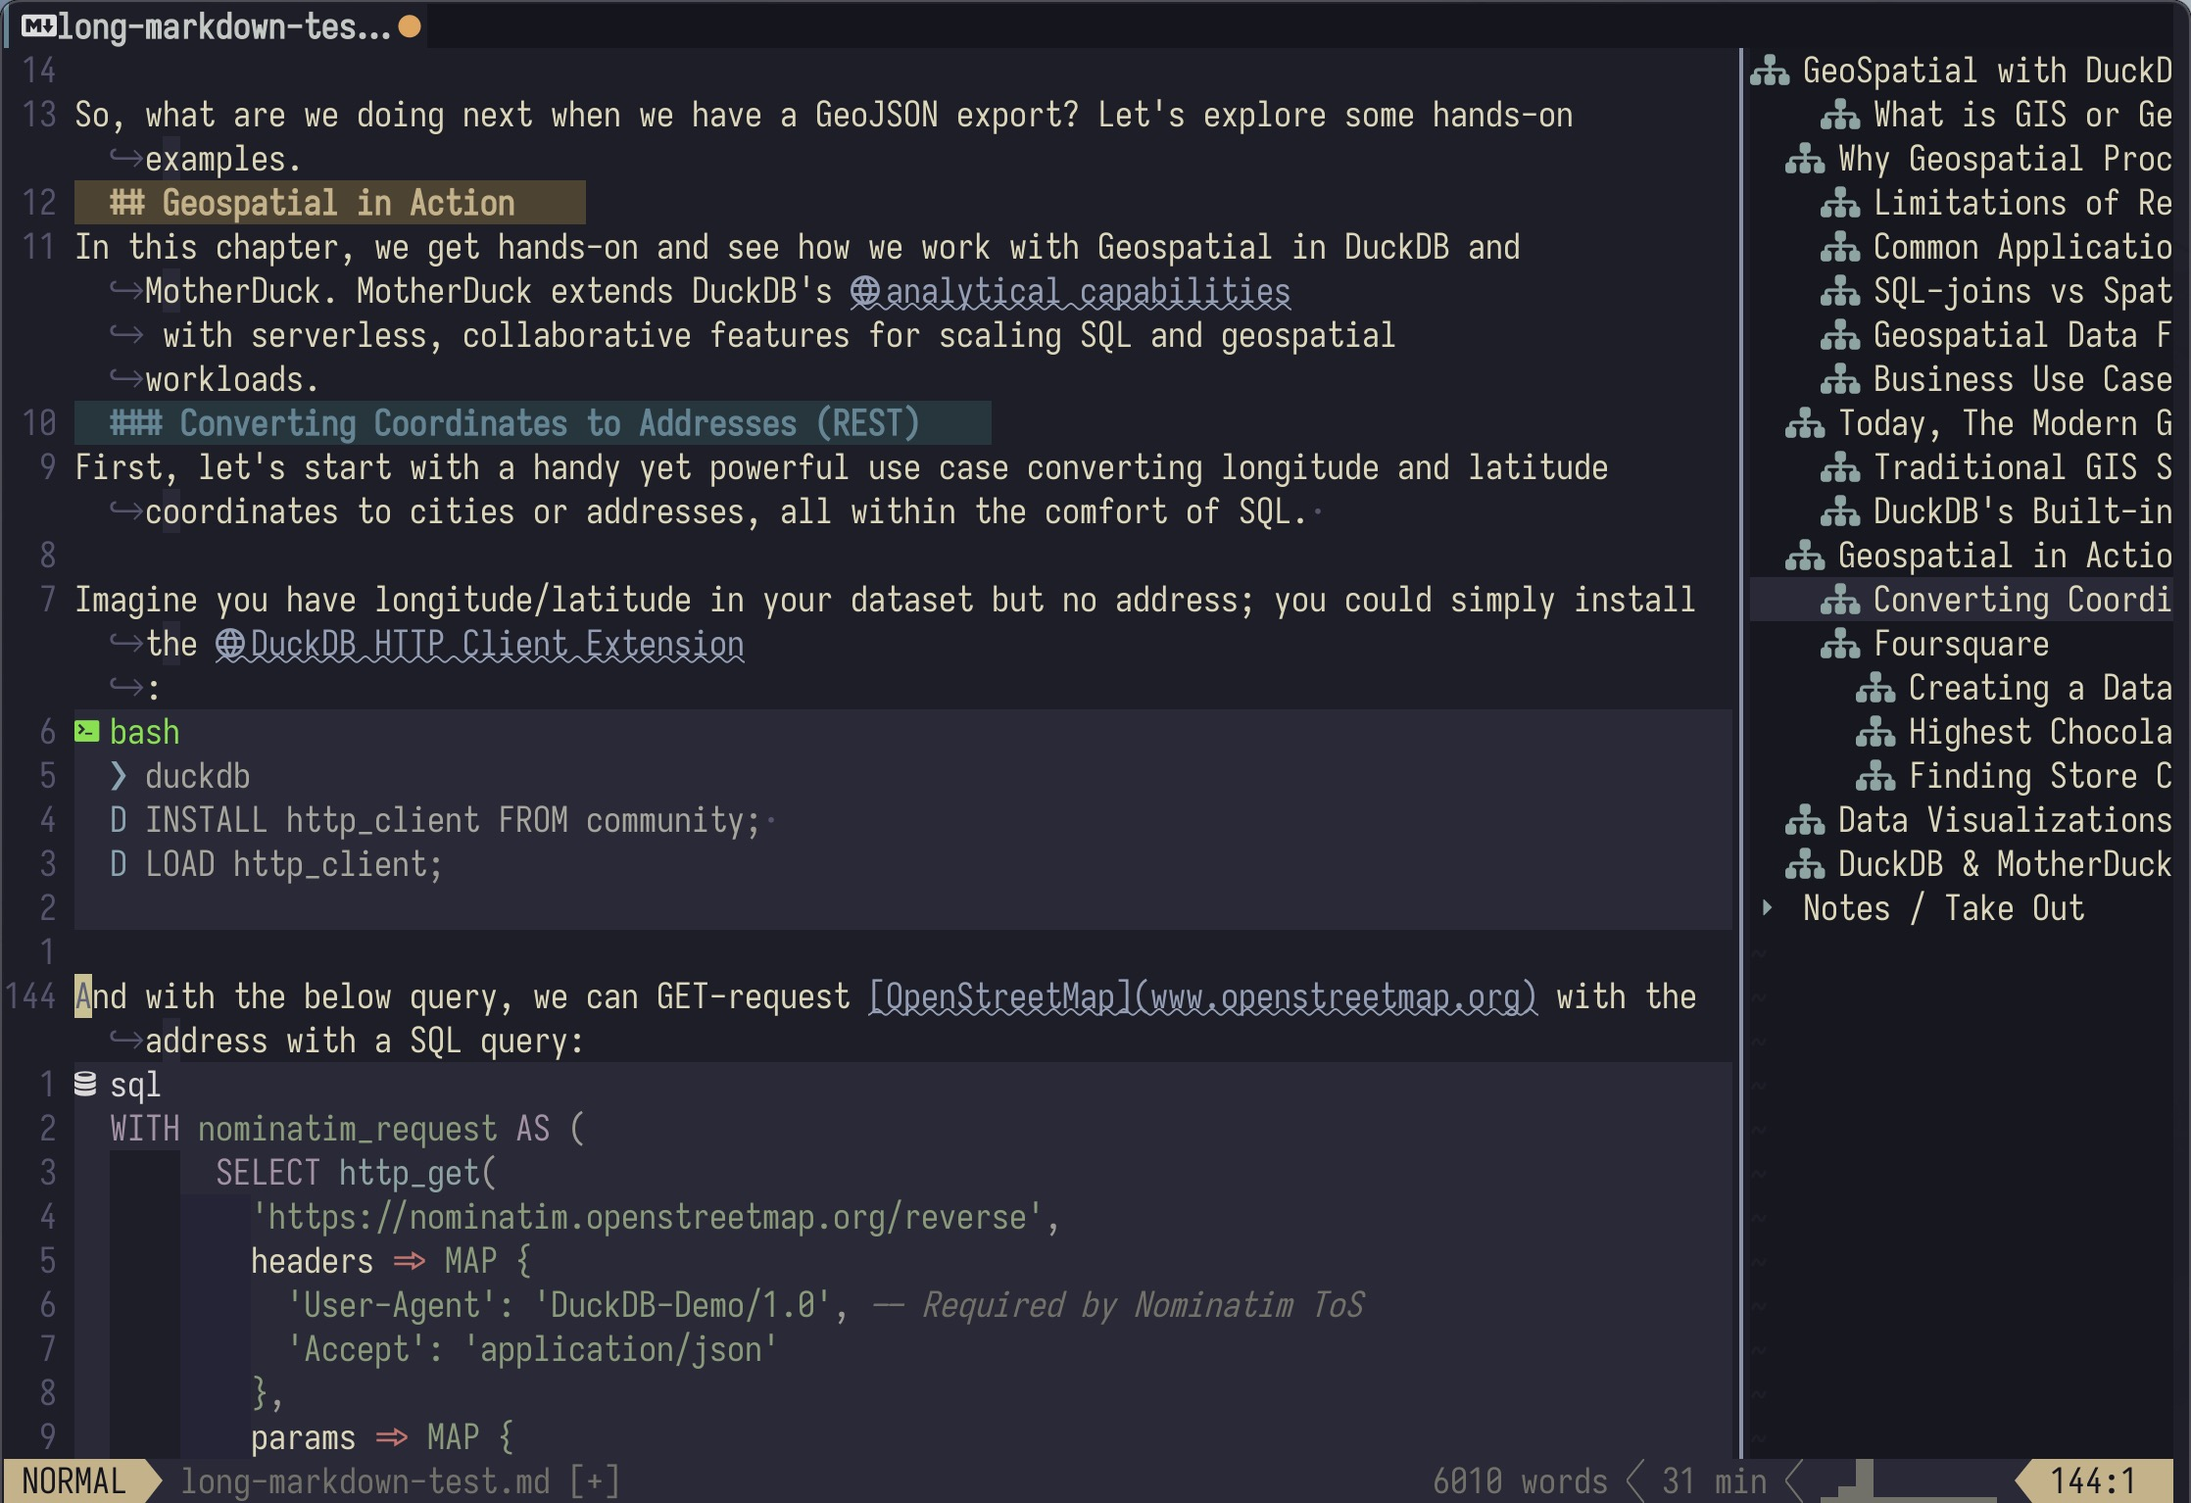
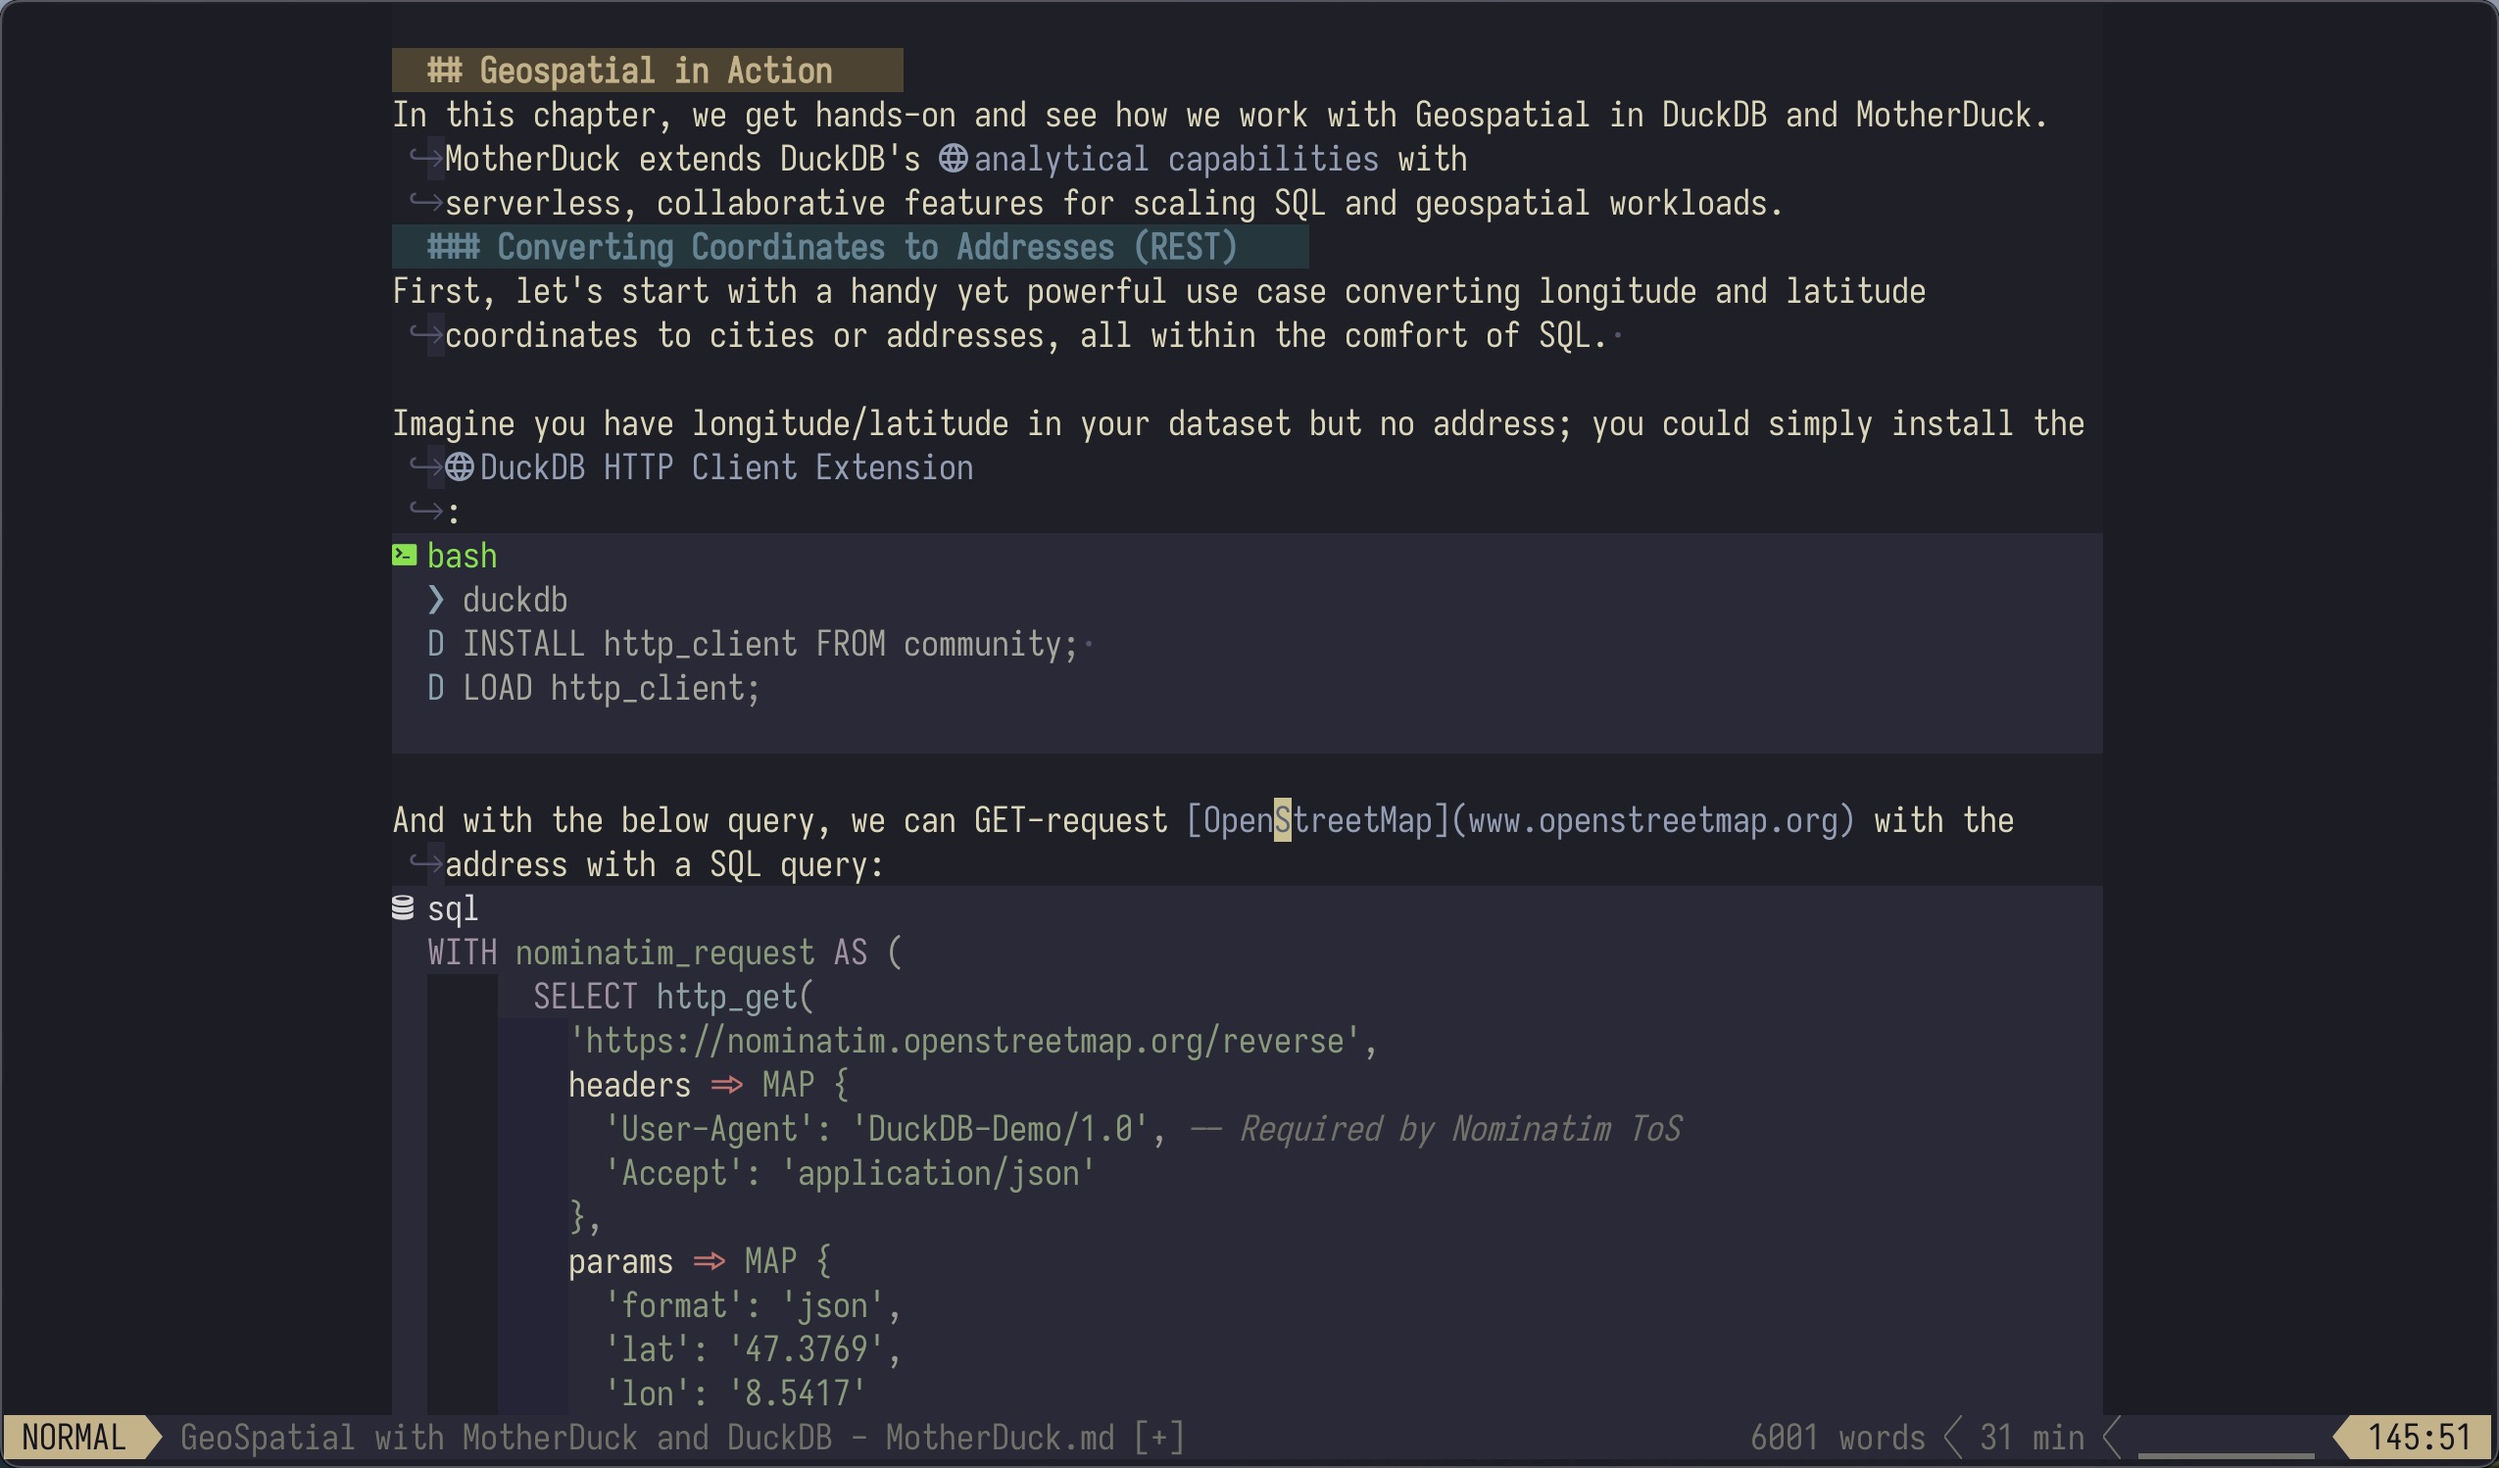
update image

diff --git a/nvim-wp/README.md b/nvim-wp/README.md
@@ -4,8 +4,14 @@ This config is Neovim configured to act as a classical wordprocessor to write te
 
 > **Important**: Activate `zen-mode` with `leader+z` to get into the focus mode. This will center text, hide tmux when active, and many more.
 
+
+### Zen Mode
 ![](wordprocessor.jpg) 
 
+### Default with Outline
+![](wordprocessor-outline.jpg) 
+
+### Micro Journal
 This markdown optimized config will be used on a [Micro Journal](https://github.com/unkyulee/micro-journal) device, a modern distraction-free type writer.
 
 ![](micro-journal.webp) 
